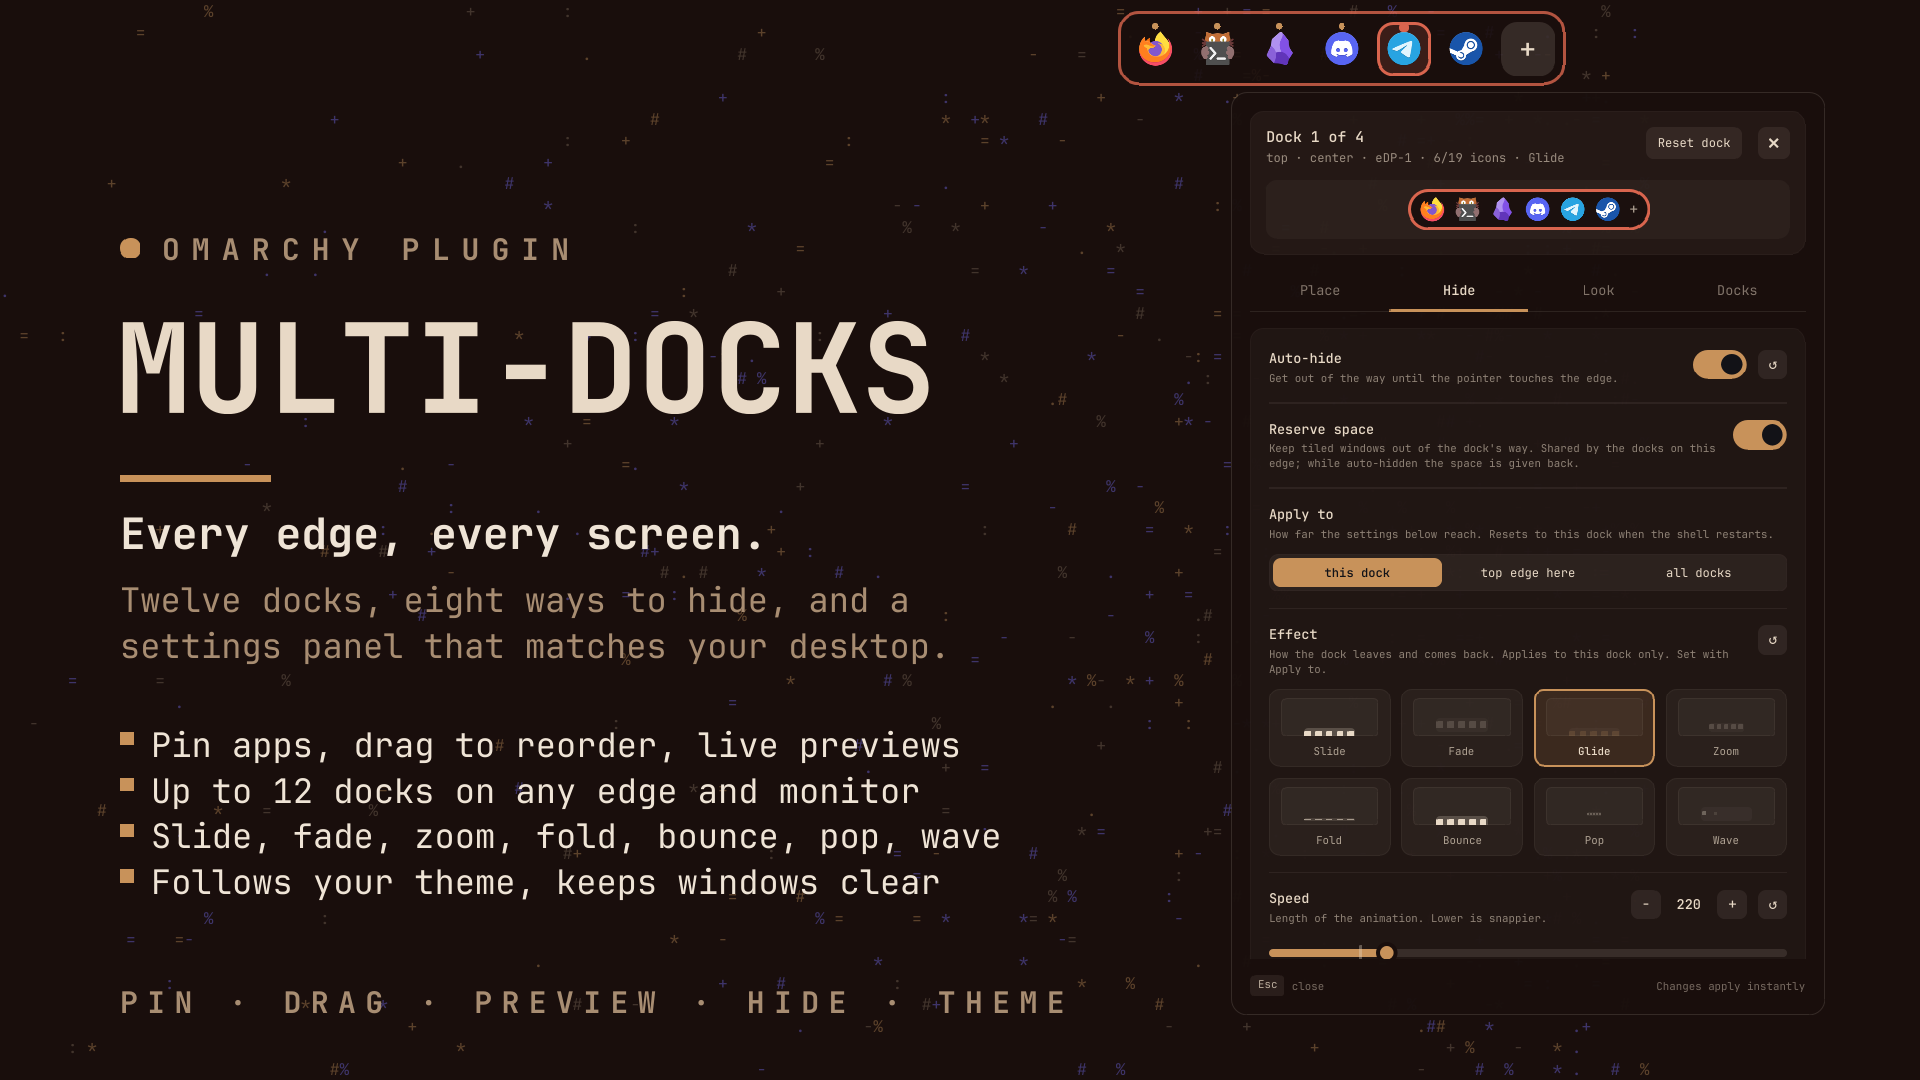
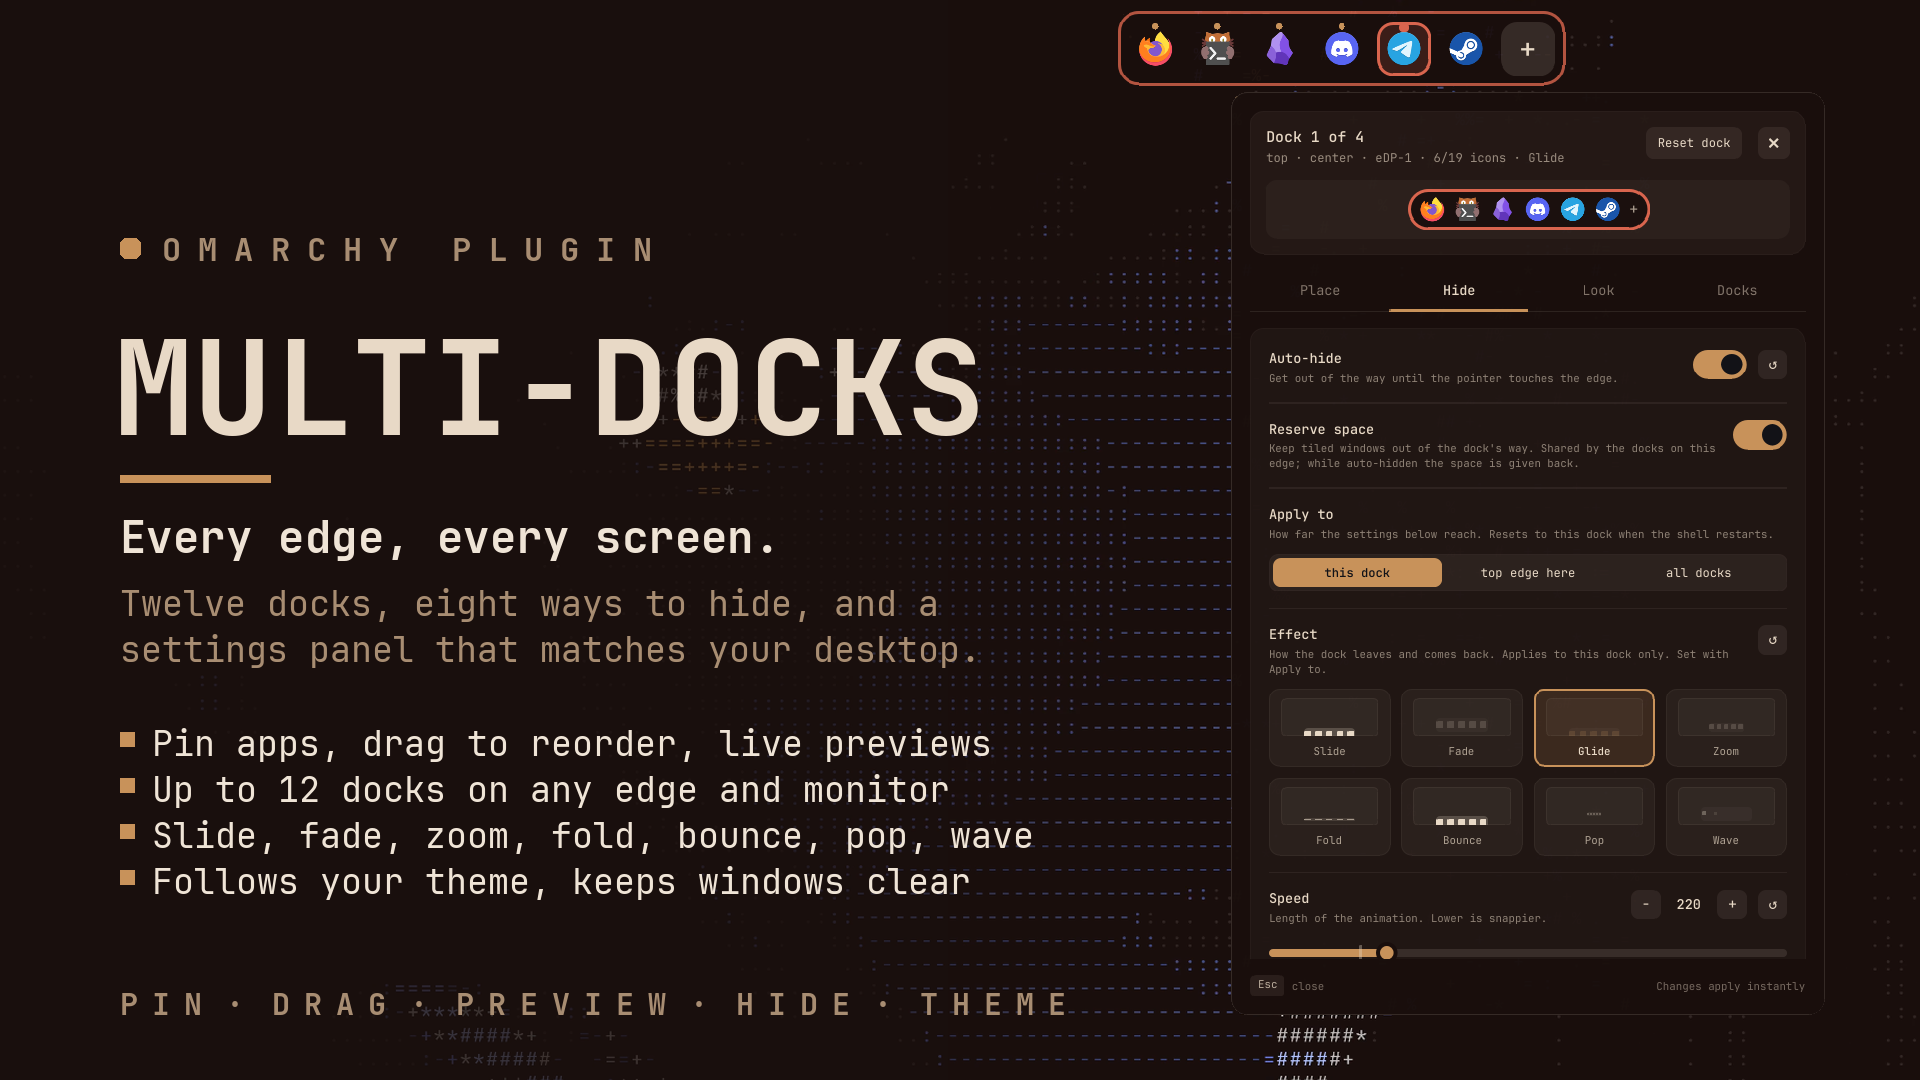
Multi-Docks 2.0.1: organise the QML into dock, settings and js folders and refresh the preview image.

diff --git a/qml/settings/SettingRow.qml b/qml/settings/SettingRow.qml
@@ -1,6 +1,6 @@
 import QtQuick
 import QtQuick.Layouts
-import "Effects.js" as Fx
+import "../js/Effects.js" as Fx
 
 // One setting in the dock settings: a label and a plain-language hint on the
 // left, the value / switch / reset on the right, and the control underneath.

diff --git a/qml/dock/DockWindow.qml b/qml/dock/DockWindow.qml
@@ -3,7 +3,8 @@ import Quickshell
 import Quickshell.Wayland
 import Quickshell.Hyprland
 import Quickshell.Widgets
-import "Effects.js" as Fx
+import "../js/Effects.js" as Fx
+import "../settings"
 
 PanelWindow {
   id: win

diff --git a/qml/settings/SettingsPanel.qml b/qml/settings/SettingsPanel.qml
@@ -2,7 +2,7 @@ import QtQuick
 import QtQuick.Layouts
 import Quickshell
 import Quickshell.Widgets
-import "Effects.js" as Fx
+import "../js/Effects.js" as Fx
 
 // Settings of one dock:
 //

diff --git a/qml/Service.qml b/qml/Service.qml
@@ -3,6 +3,7 @@ import Quickshell
 import Quickshell.Io
 import Quickshell.Hyprland
 import Quickshell.Wayland
+import "dock"
 
 Scope {
   id: root

diff --git a/README.md b/README.md
@@ -332,13 +332,13 @@ The rule takes effect after a Hyprland reload (`hyprctl reload`). Find an app's 
 | File | Purpose |
 | --- | --- |
 | `manifest.json` | Omarchy plugin manifest |
-| `Service.qml` | Config, theme colors, per-monitor bar detection, layout math, one window per dock |
-| `Spacer.qml` | Invisible window that reserves space on one edge of one monitor |
-| `DockWindow.qml` | A single dock: icons, drag, hide effects, previews, menus and add-app picker |
-| `SettingsPanel.qml` | The settings panel: header with live preview, tabs, rows and footer |
-| `SettingRow.qml` | One setting: segmented control, switch, slider with stepper, or effect tiles |
-| `SearchField.qml` | Clipboard-free search field for the add-app picker (explicit, size-capped paste only) |
-| `Effects.js` | The auto-hide effect math, shared by the docks and the settings previews |
+| `qml/Service.qml` | Config, theme colors, per-monitor bar detection, layout math, one window per dock |
+| `qml/dock/Spacer.qml` | Invisible window that reserves space on one edge of one monitor |
+| `qml/dock/DockWindow.qml` | A single dock: icons, drag, hide effects, previews, menus and add-app picker |
+| `qml/settings/SettingsPanel.qml` | The settings panel: header with live preview, tabs, rows and footer |
+| `qml/settings/SettingRow.qml` | One setting: segmented control, switch, slider with stepper, or effect tiles |
+| `qml/dock/SearchField.qml` | Clipboard-free search field for the add-app picker (explicit, size-capped paste only) |
+| `qml/js/Effects.js` | The auto-hide effect math, shared by the docks and the settings previews |
 | `LICENSE` | MIT license |
 | `preview.png` | Preview shown at the top of this README and in the marketplace listing |
 | `screenshots/` | The images in this README: the desktop, effects, colors, outline, popups and every settings tab |
@@ -360,7 +360,7 @@ omarchy plugin validate .
 To lint the QML:
 
 ```bash
-qmllint -I "$OMARCHY_PATH/shell" Service.qml DockWindow.qml Spacer.qml SettingsPanel.qml SettingRow.qml SearchField.qml
+qmllint -I "$OMARCHY_PATH/shell" qml/Service.qml qml/dock/*.qml qml/settings/*.qml
 ```
 
 ## Updating
